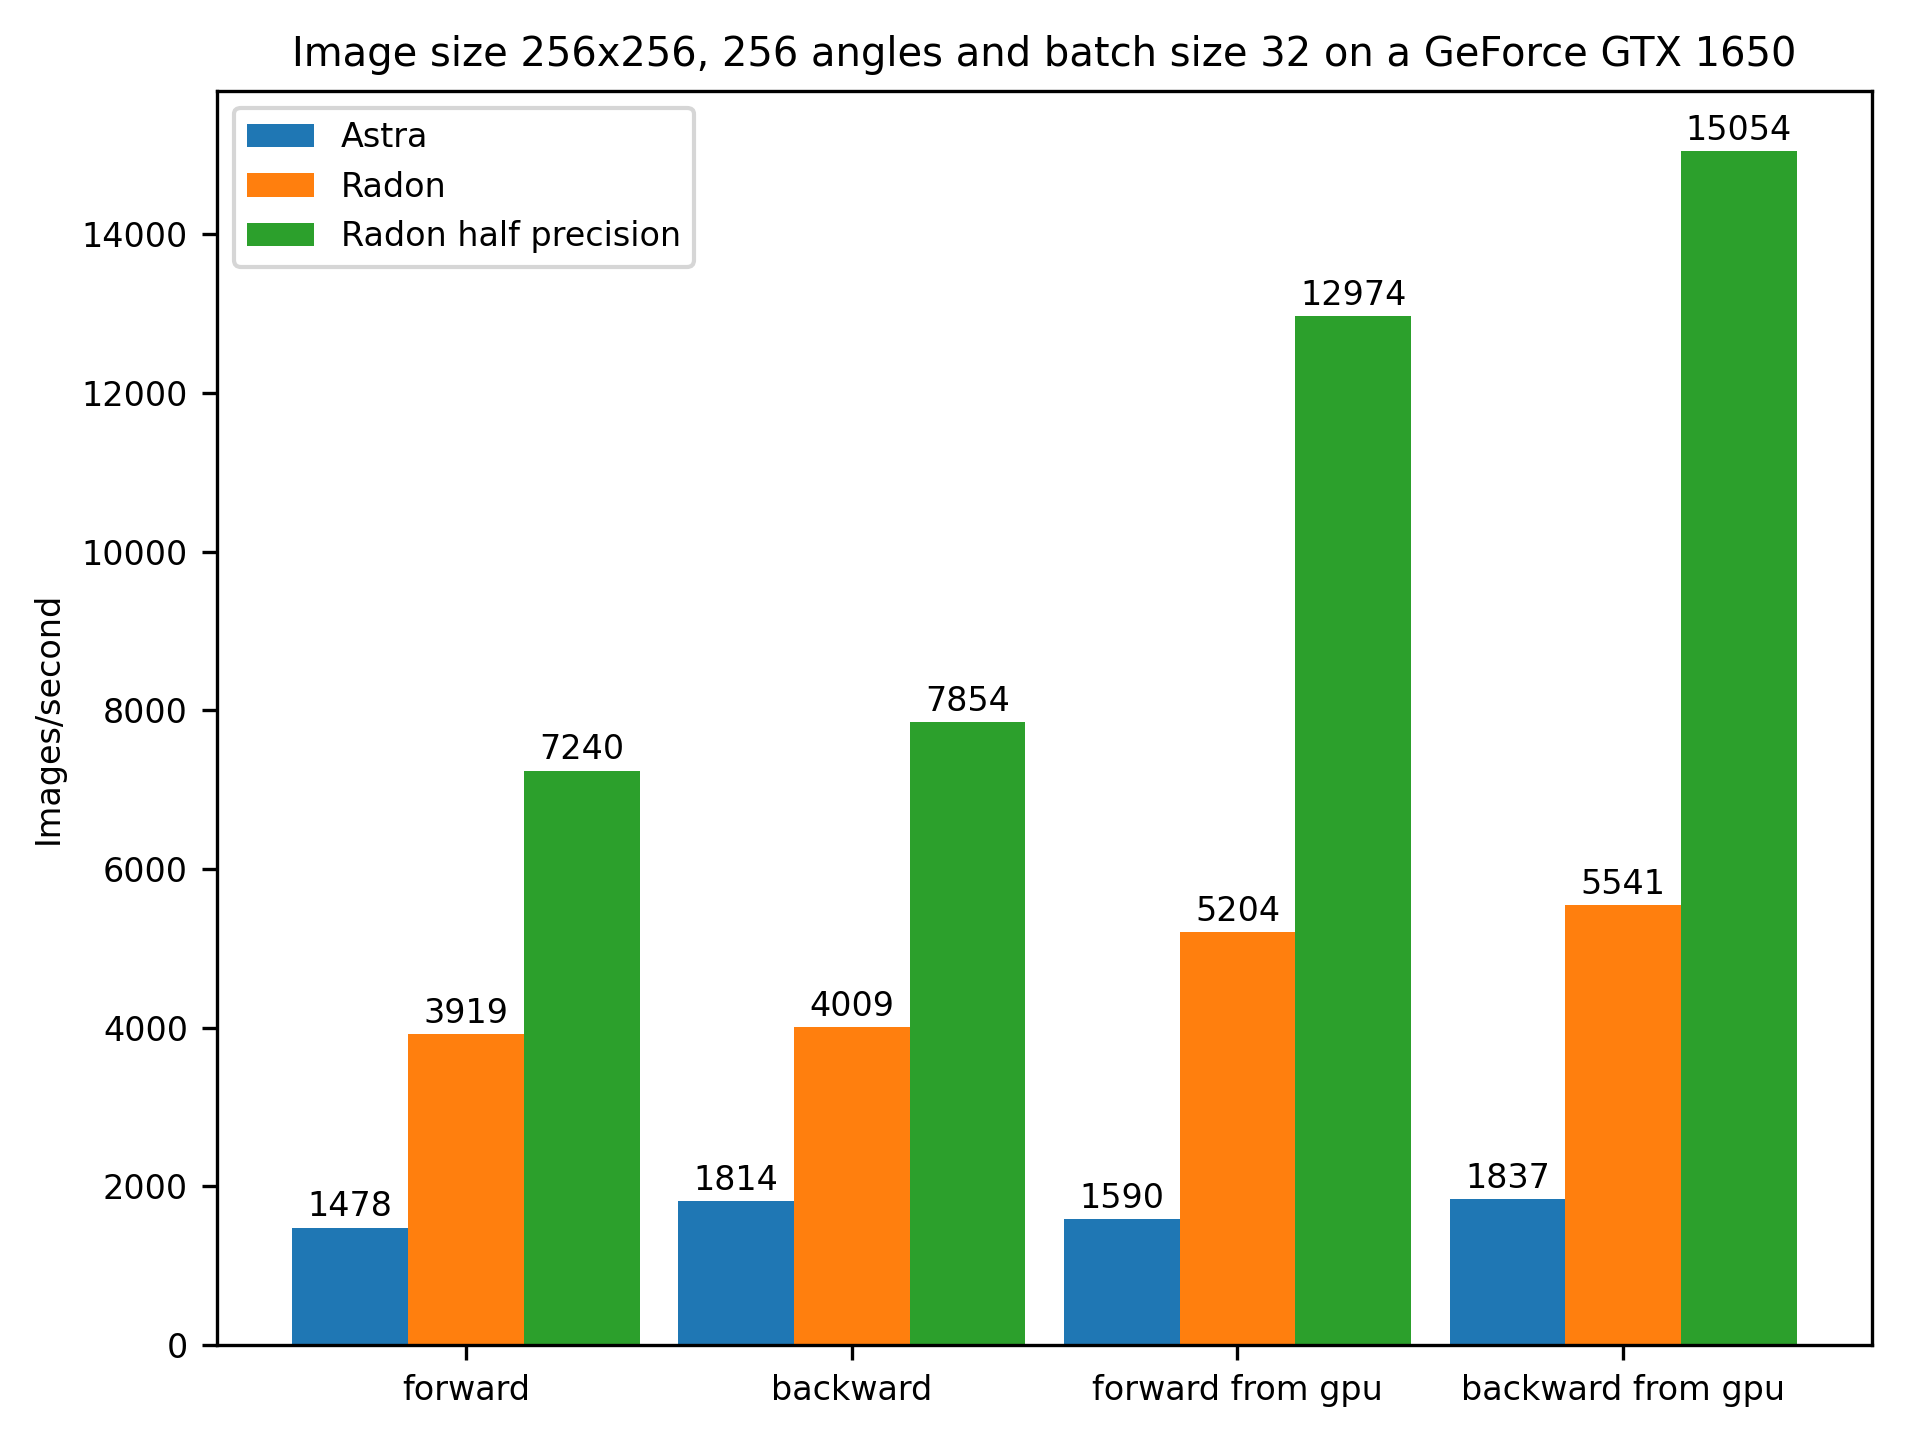
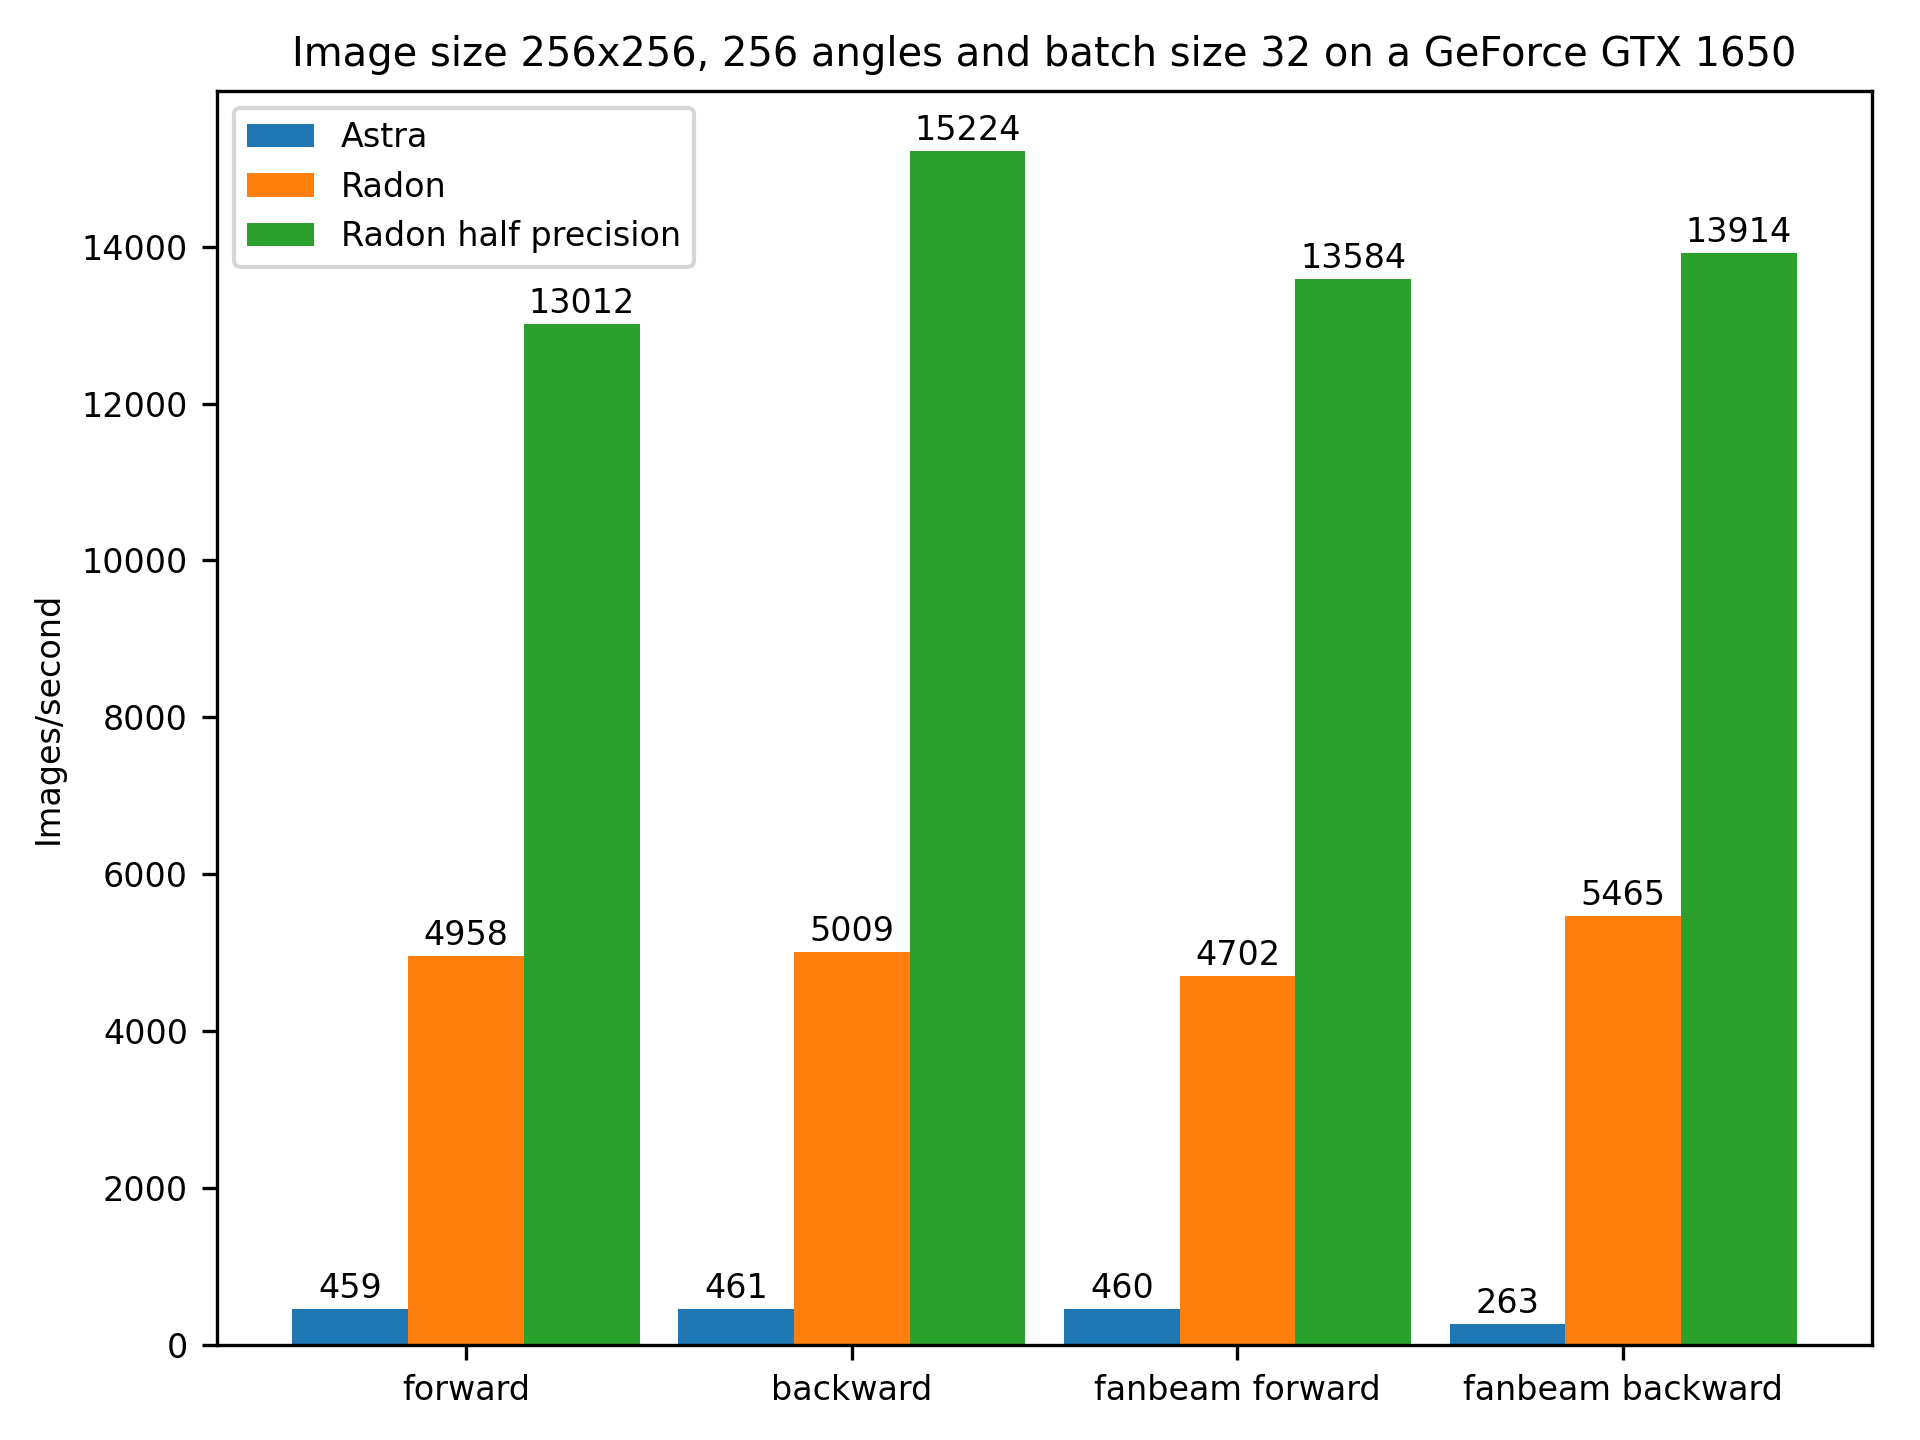
shearlet benchmark

diff --git a/benchmark.py b/benchmark.py
@@ -9,53 +9,13 @@ import torch
 from torch_radon import Radon, RadonFanbeam
 import torch_radon_cuda
 import matplotlib.pyplot as plt
+from alpha_transform import AlphaShearletTransform
+from torch_radon.shearlet import ShearletTransform
 
 device = torch.device('cuda')
 
 
-# def bench(batch_size, image_size, n_angles=180, sample_size=50):
-#     x = generate_random_images(batch_size, image_size)
-#     angles = np.linspace(0, 2 * np.pi, n_angles).astype(np.float32)
-#
-#     astra = AstraWrapper(angles)
-#
-#     for i in range(10):
-#         _ = astra.forward(x)
-#
-#     s = time.time()
-#     for i in range(sample_size):
-#         # for j in range(x.shape[0]):
-#         #     astra.fbp(x[j])
-#         _ = astra.forward(x)
-#     e = time.time()
-#     astra_time = (e - s) / sample_size
-#
-#     with torch.no_grad():
-#         radon = Radon(image_size, angles).to(device)
-#         x = torch.FloatTensor(x)
-#
-#         for i in range(10):
-#             x_ = x.to(device)
-#             y = radon.forward(x_)
-#             y = radon.filter_sinogram(y)
-#             z = radon.backprojection(y)
-#             y_ = z.cpu()
-#
-#         s = time.time()
-#         for i in range(sample_size):
-#             x_ = x.to(device)
-#             y = radon.forward(x_)
-#             y = radon.filter_sinogram(y)
-#             z = radon.backprojection(y)
-#             y_ = z.cpu()
-#
-#         e = time.time()
-#         our_time = (e - s) / sample_size
-#
-#     return our_time, astra_time
-
-
-def plot(tasks, astra_times, radon_time, radon_half_time, title):
+def plot(tasks, astra_times, radon_time, radon_half_time, title, lll=("Astra", "Radon", "Radon half precision")):
     labels = tasks
 
     x = np.arange(len(labels))  # the label locations
@@ -68,9 +28,9 @@ def plot(tasks, astra_times, radon_time, radon_half_time, title):
     plt.rcParams.update(params)
 
     fig, ax = plt.subplots()
-    rects1 = ax.bar(x - width, astra_times, width, label='Astra')
-    rects2 = ax.bar(x, radon_time, width, label='Radon')
-    rects3 = ax.bar(x + width, radon_half_time, width, label='Radon half precision')
+    rects1 = ax.bar(x - width, astra_times, width, label=lll[0])
+    rects2 = ax.bar(x, radon_time, width, label=lll[1])
+    rects3 = ax.bar(x + width, radon_half_time, width, label=lll[2])
 
     # Add some text for labels, title and custom x-axis tick labels, etc.
     ax.set_ylabel('Images/second')
@@ -185,6 +145,83 @@ class AstraFanbeamWrapper:
         return torch.from_numpy(Y).to(device)
 
 
+def shearlet_forward(alpha_shearlet, X):
+    y = []
+    for x in X:
+        y.append(alpha_shearlet.transform(x, do_norm=False))
+    return y
+
+
+def benchmark_shearlet(args):
+    img_size = args.image_size
+    scales = [0.5] * 4
+
+    x = np.random.uniform(0, 1, (args.batch_size, img_size, img_size))
+
+    alpha_fps = []
+    radon_fps = []
+    radon_single_fps = []
+
+    shearlet = ShearletTransform(img_size, img_size, scales)
+    alpha_shearlet = AlphaShearletTransform(img_size, img_size, scales, real=True, parseval=True)
+
+    coeff_ = alpha_shearlet.transform(x[0], do_norm=False)
+    # rec_ = alpha_shearlet.adjoint_transform(coeff_, do_norm=False)
+
+    alpha_forward_time = benchmark_function(lambda y: alpha_shearlet.transform(y, do_norm=False), x[0], args.samples,
+                                            args.warmup)
+    alpha_fps.append(1.0 / alpha_forward_time)
+    print(alpha_forward_time)
+
+    alpha_backward_time = benchmark_function(lambda y: alpha_shearlet.adjoint_transform(y, do_norm=False), coeff_, args.samples,
+                                            args.warmup)
+    alpha_fps.append(1.0 / alpha_backward_time)
+
+    with torch.no_grad():
+        dx = torch.DoubleTensor(x).to(device)
+        radon_forward_time = benchmark_function(lambda y: shearlet.forward(y), dx, args.samples, args.warmup)
+        radon_forward_fps = args.batch_size / radon_forward_time
+        radon_fps.append(radon_forward_fps)
+
+        coeff = shearlet.forward(dx)
+        radon_backward_time = benchmark_function(lambda y: shearlet.backward(y), coeff, args.samples, args.warmup)
+        radon_backward_fps = args.batch_size / radon_backward_time
+        radon_fps.append(radon_backward_fps)
+
+        dx = torch.FloatTensor(x).to(device)
+        radon_forward_time = benchmark_function(lambda y: shearlet.forward(y), dx, args.samples, args.warmup)
+        radon_forward_fps = args.batch_size / radon_forward_time
+        radon_single_fps.append(radon_forward_fps)
+
+        coeff = shearlet.forward(dx)
+        radon_backward_time = benchmark_function(lambda y: shearlet.backward(y), coeff, args.samples, args.warmup)
+        radon_backward_fps = args.batch_size / radon_backward_time
+        radon_single_fps.append(radon_backward_fps)
+
+    title = f"Image size {args.image_size}x{args.image_size}, batch size {args.batch_size} and scales {scales} on a {torch.cuda.get_device_name(0)}"
+
+    plot(["Shearlet Forward", "Shearlet Back"], alpha_fps, radon_fps, radon_single_fps, title, ("Alpha Shearlet", "Torch Radon Double", "Torch Radon Float"))
+    if args.output:
+        plt.savefig(args.output, dpi=300)
+    else:
+        plt.show()
+    # with torch.no_grad():
+    #     # check with double precision
+    #
+    #     coeff = shearlet.forward(dx)
+    #     rec = shearlet.backward(coeff)
+    #
+    #     x_err_d = (torch.norm(rec - dx) / torch.norm(dx)).item()
+    #     coef_err_d = relative_error(coeff_, coeff.cpu().numpy())
+    #     rec_err_d = relative_error(rec_, rec.cpu().numpy())
+    #     print(x_err_d, coef_err_d, rec_err_d)
+    #
+    #     # check with single precision
+    #     dx = torch.FloatTensor(x).to(device)
+    #     coeff = shearlet.forward(dx)
+    #     rec = shearlet.backward(coeff)
+
+
 def main():
     parser = argparse.ArgumentParser(description='Benchmark and compare with Astra Toolbox')
     parser.add_argument('--task', default="all")
@@ -208,71 +245,20 @@ def main():
 
     astra_pw = AstraParallelWrapper(angles, args.image_size)
     astra_fw = AstraFanbeamWrapper(angles, args.image_size)
-    #astra = AstraWrapper(angles)
+    # astra = AstraWrapper(angles)
 
     if args.task == "all":
         tasks = ["forward", "backward", "fanbeam forward", "fanbeam backward"]
+    elif args.task == "shearlet":
+        # tasks = ["shearlet forward", "shearlet backward"]
+        benchmark_shearlet(args)
+        return
     else:
         tasks = [args.task]
 
     astra_fps = []
     radon_fps = []
     radon_half_fps = []
-
-    # x = torch.randn((args.batch_size, args.image_size, args.image_size), device=device)
-
-    # if "forward" in tasks:
-    #     print("Benchmarking forward")
-    #     x = generate_random_images(args.batch_size, args.image_size)
-    #     astra_time = benchmark_function(lambda y: astra.forward(y), x, args.samples, args.warmup)
-    #     radon_time = benchmark_function(lambda y: radon.forward(torch.FloatTensor(x).to(device)).cpu(), x, args.samples,
-    #                                     args.warmup)
-    #     radon_half_time = benchmark_function(lambda y: radon.forward(torch.HalfTensor(x).to(device)).cpu(), x,
-    #                                          args.samples, args.warmup)
-    #
-    #     astra_fps.append(args.batch_size / astra_time)
-    #     radon_fps.append(args.batch_size / radon_time)
-    #     radon_half_fps.append(args.batch_size / radon_half_time)
-    #
-    #     print(astra_time, radon_time, radon_half_time)
-    #     astra.clean()
-    #
-    # if "backward" in tasks:
-    #     print("Benchmarking backward")
-    #     x = generate_random_images(args.batch_size, args.image_size)
-    #     pid, x = astra.forward(x)
-    #
-    #     astra_time = benchmark_function(lambda y: astra.backproject(pid, args.image_size, args.batch_size), x,
-    #                                     args.samples, args.warmup)
-    #     radon_time = benchmark_function(lambda y: radon.backward(torch.FloatTensor(x).to(device)).cpu(), x,
-    #                                     args.samples,
-    #                                     args.warmup)
-    #     radon_half_time = benchmark_function(lambda y: radon.backward(torch.HalfTensor(x).to(device)).cpu(), x,
-    #                                          args.samples, args.warmup)
-    #
-    #     astra_fps.append(args.batch_size / astra_time)
-    #     radon_fps.append(args.batch_size / radon_time)
-    #     radon_half_fps.append(args.batch_size / radon_half_time)
-    #
-    #     print(astra_time, radon_time, radon_half_time)
-    #     astra.clean()
-
-    #     if "forward+backward" in tasks:
-    #         print("Benchmarking forward + backward")
-    #         x = generate_random_images(args.batch_size, args.image_size)
-    #         astra_time = benchmark_function(lambda y: astra_forward_backward(astra, y, args.image_size, args.batch_size), x,
-    #                                         args.samples, args.warmup)
-    #         radon_time = benchmark_function(lambda y: radon_forward_backward(radon, y), x, args.samples,
-    #                                         args.warmup)
-    #         radon_half_time = benchmark_function(lambda y: radon_forward_backward(radon, y, half=True), x,
-    #                                              args.samples, args.warmup)
-
-    #         astra_fps.append(args.batch_size / astra_time)
-    #         radon_fps.append(args.batch_size / radon_time)
-    #         radon_half_fps.append(args.batch_size / radon_half_time)
-
-    #         print(astra_time, radon_time, radon_half_time)
-    #         astra.clean()
 
     if "forward" in tasks:
         print("Benchmarking forward from device")
@@ -289,8 +275,8 @@ def main():
         radon_fps.append(args.batch_size / radon_time)
         radon_half_fps.append(args.batch_size / radon_half_time)
 
-        print("Speedup:", astra_time/radon_time)
-        print("Speedup half-precision:", astra_time/radon_half_time)
+        print("Speedup:", astra_time / radon_time)
+        print("Speedup half-precision:", astra_time / radon_half_time)
         print()
 
     if "backward" in tasks:
@@ -309,8 +295,8 @@ def main():
         radon_fps.append(args.batch_size / radon_time)
         radon_half_fps.append(args.batch_size / radon_half_time)
 
-        print("Speedup:", astra_time/radon_time)
-        print("Speedup half-precision:", astra_time/radon_half_time)
+        print("Speedup:", astra_time / radon_time)
+        print("Speedup half-precision:", astra_time / radon_half_time)
         print()
 
     if "fanbeam forward" in tasks:
@@ -329,8 +315,8 @@ def main():
         radon_fps.append(args.batch_size / radon_time)
         radon_half_fps.append(args.batch_size / radon_half_time)
 
-        print("Speedup:", astra_time/radon_time)
-        print("Speedup half-precision:", astra_time/radon_half_time)
+        print("Speedup:", astra_time / radon_time)
+        print("Speedup half-precision:", astra_time / radon_half_time)
         print()
 
     if "fanbeam backward" in tasks:

diff --git a/tests/test_parallel_beam.py b/tests/test_parallel_beam.py
@@ -16,7 +16,7 @@ sparse_angles = np.linspace(0, 2 * np.pi, 60).astype(np.float32)
 
 params = []  # [(device, 8, 128, full_angles)]
 for batch_size in [1, 8, 16]:  # , 64, 128]:  # , 256, 512]:
-    for image_size in [128, 128 + 32, 256]:  # , 512]:
+    for image_size in [128, 245, 256]:  # , 512]:
         for angles in [full_angles, limited_angles, sparse_angles]:
             for spacing in [1.0, 0.5, 1.3, 2.0]:
                 for det_count in [1.0, 1.5]:
@@ -51,11 +51,11 @@ def test_error(device, batch_size, image_size, angles, spacing, det_count, clip_
     forward_error = relative_error(astra_fp, our_fp.cpu().numpy())
     back_error = relative_error(astra_bp, our_bp.cpu().numpy())
 
-    # if back_error > 5e-3:
-    #     plt.imshow(astra_bp[5])
-    #     plt.figure()
-    #     plt.imshow((our_bp[5].cpu().numpy()))
-    #     plt.show()
+    if back_error > 1e-2:
+        plt.imshow(astra_bp[0])
+        plt.figure()
+        plt.imshow((our_bp[0].cpu().numpy() - astra_bp[0]))
+        plt.show()
 
     print(
         f"batch: {batch_size}, size: {image_size}, angles: {len(angles)}, spacing: {spacing}, det_count: {det_count}, circle: {clip_to_circle}, forward: {forward_error}, back: {back_error}")

diff --git a/tests/test_fanbeam.py b/tests/test_fanbeam.py
@@ -15,7 +15,7 @@ sparse_angles = np.linspace(0, 2 * np.pi, 60).astype(np.float32)
 
 params = []
 for batch_size in [1, 8]:
-    for image_size in [128, 128 + 32]:
+    for image_size in [128, 151]:
         for angles in [full_angles, limited_angles, sparse_angles]:
             for spacing in [1.0, 0.5, 1.3, 2.0]:
                 for distances in [(1.2, 1.2), (2.0, 2.0), (1.2, 3.0)]:
@@ -67,6 +67,8 @@ def test_fanbeam_error(device, batch_size, image_size, angles, spacing, distance
     #     plt.figure()
     #     plt.imshow(our_bp[0].cpu().numpy())
     #     plt.show()
+    print(np.max(our_fp.cpu().numpy()), np.max(our_bp.cpu().numpy()))
+
 
     print(
         f"batch: {batch_size}, size: {image_size}, angles: {len(angles)}, spacing: {spacing}, distances: {distances} circle: {clip_to_circle}, forward: {forward_error}, back: {back_error}")

diff --git a/src/pytorch.cpp b/src/pytorch.cpp
@@ -53,7 +53,6 @@ radon_backward(torch::Tensor x, torch::Tensor angles, TextureCache &tex_cache, c
     auto options = torch::TensorOptions().dtype(dtype).device(x.device());
     auto y = torch::empty({batch_size, rays_cfg.height, rays_cfg.width}, options);
 
-
     if (dtype == torch::kFloat16) {
         radon_backward_cuda((unsigned short *) x.data_ptr<at::Half>(), angles.data_ptr<float>(),
                             (unsigned short *) y.data_ptr<at::Half>(),
